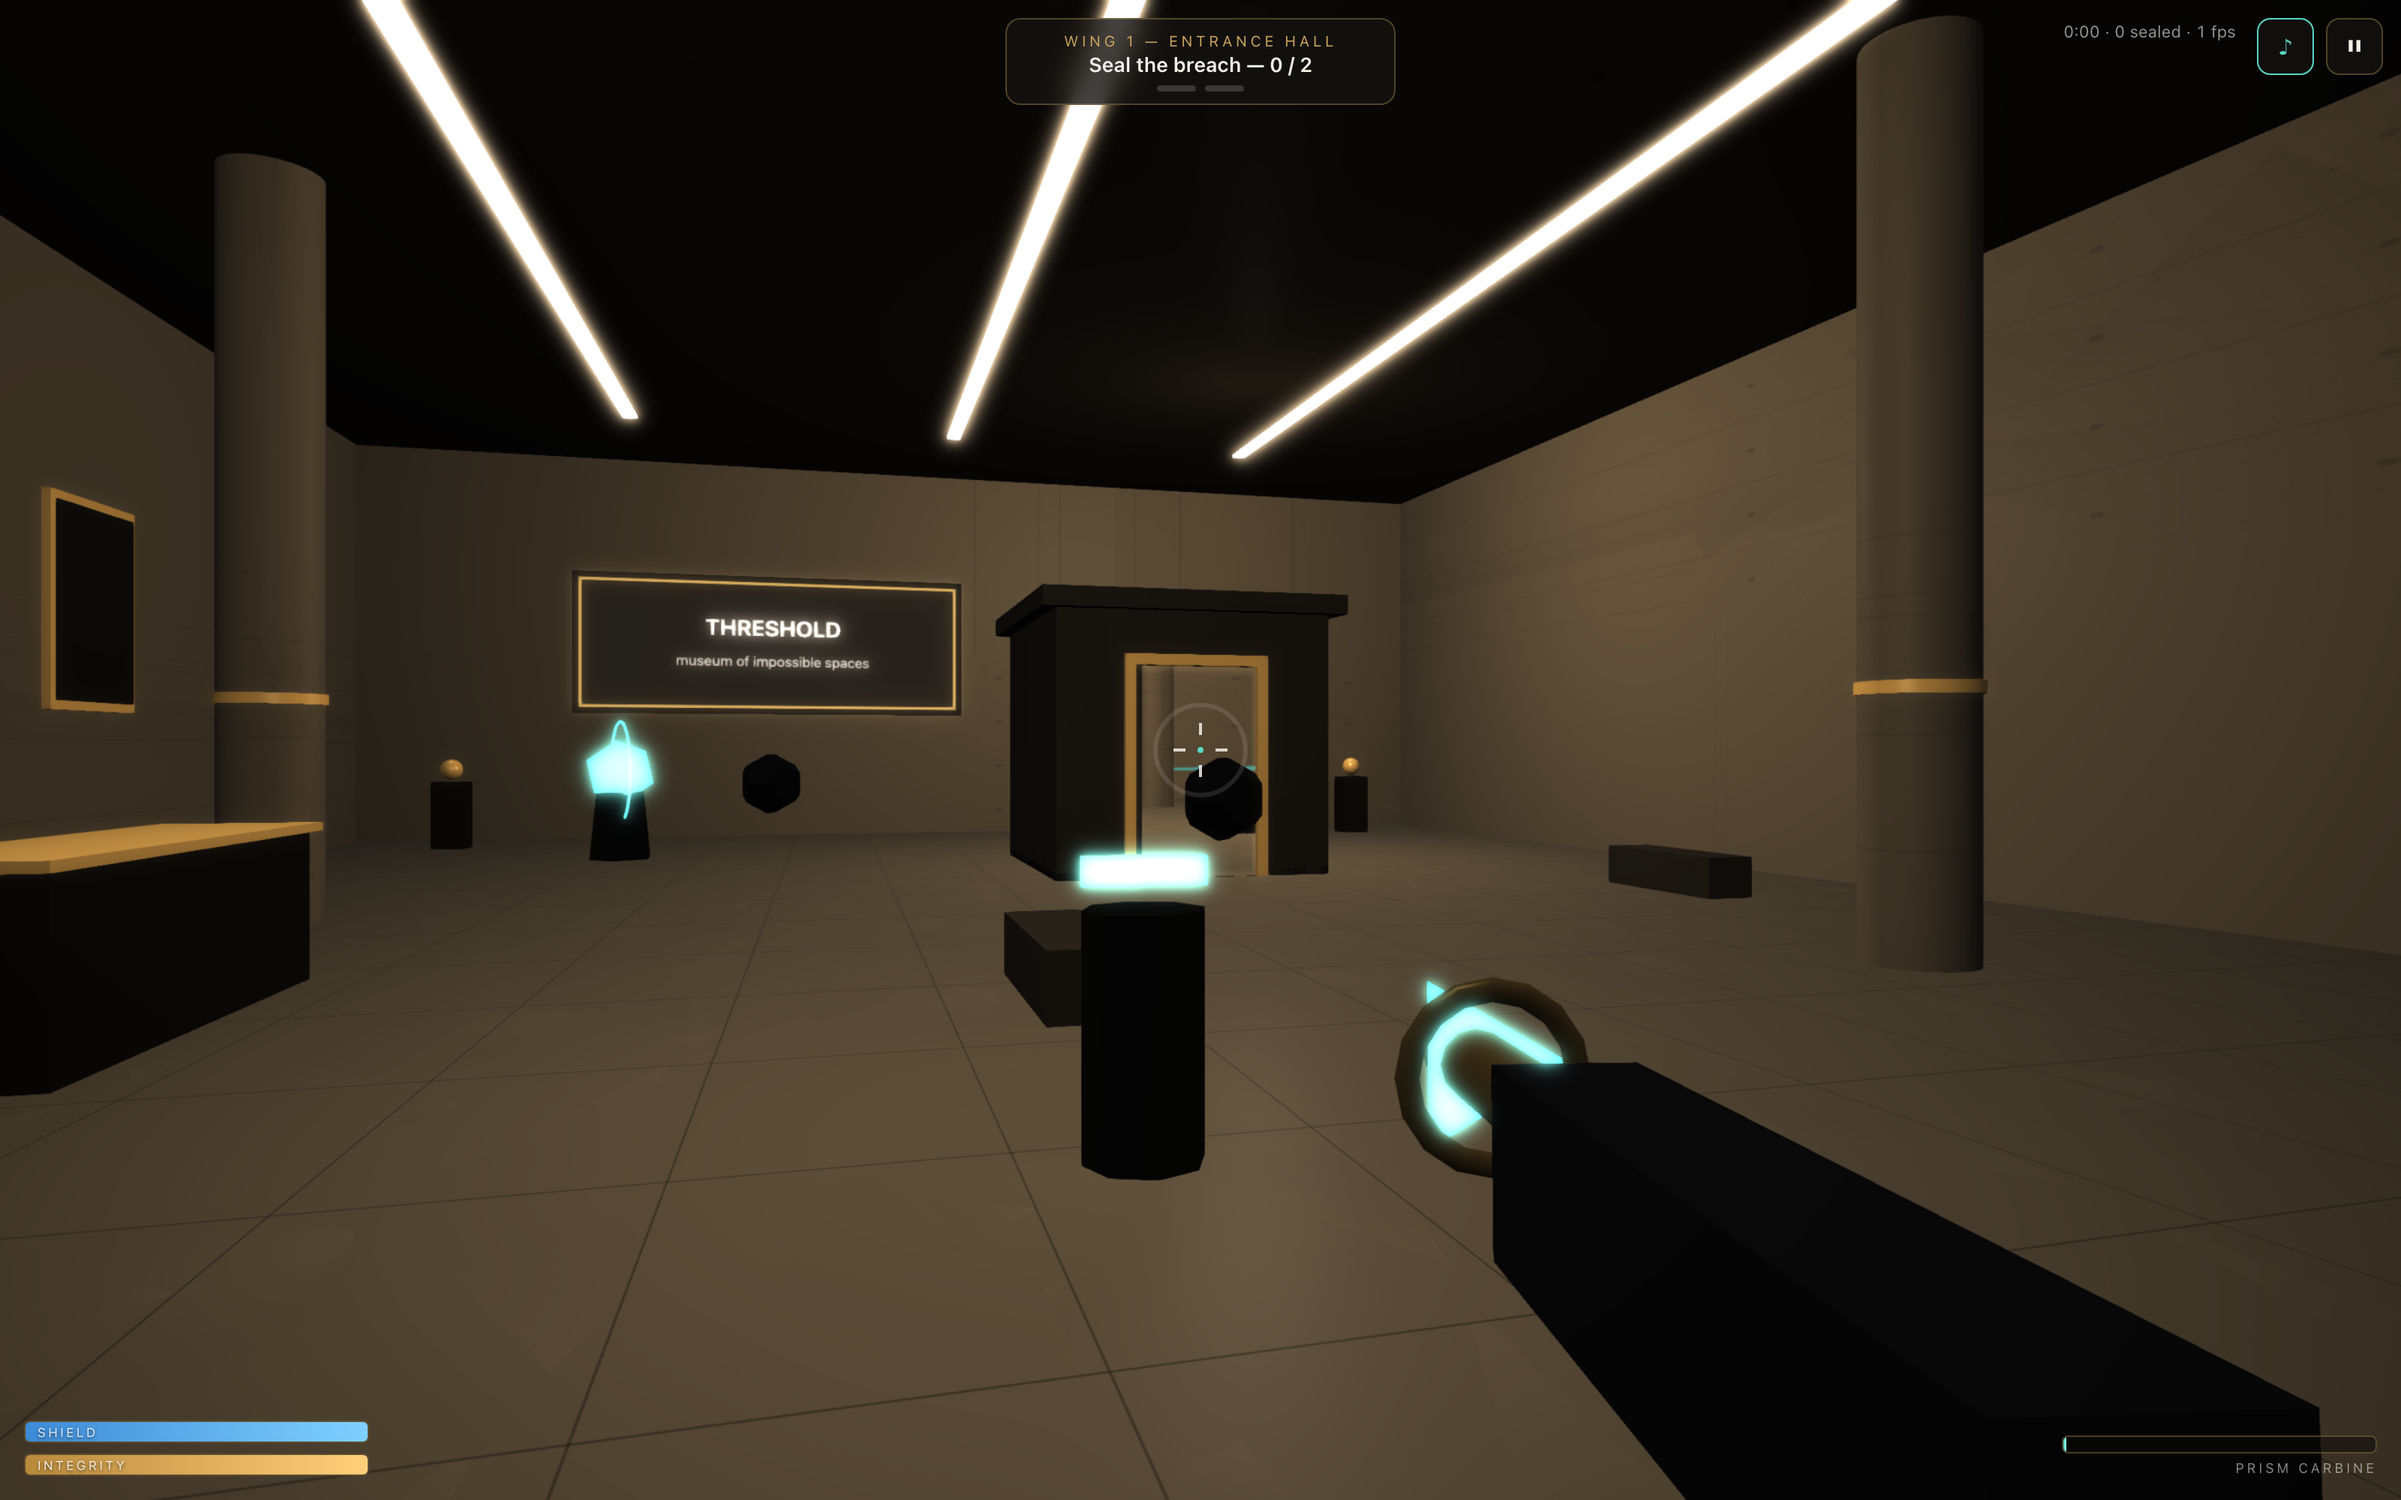
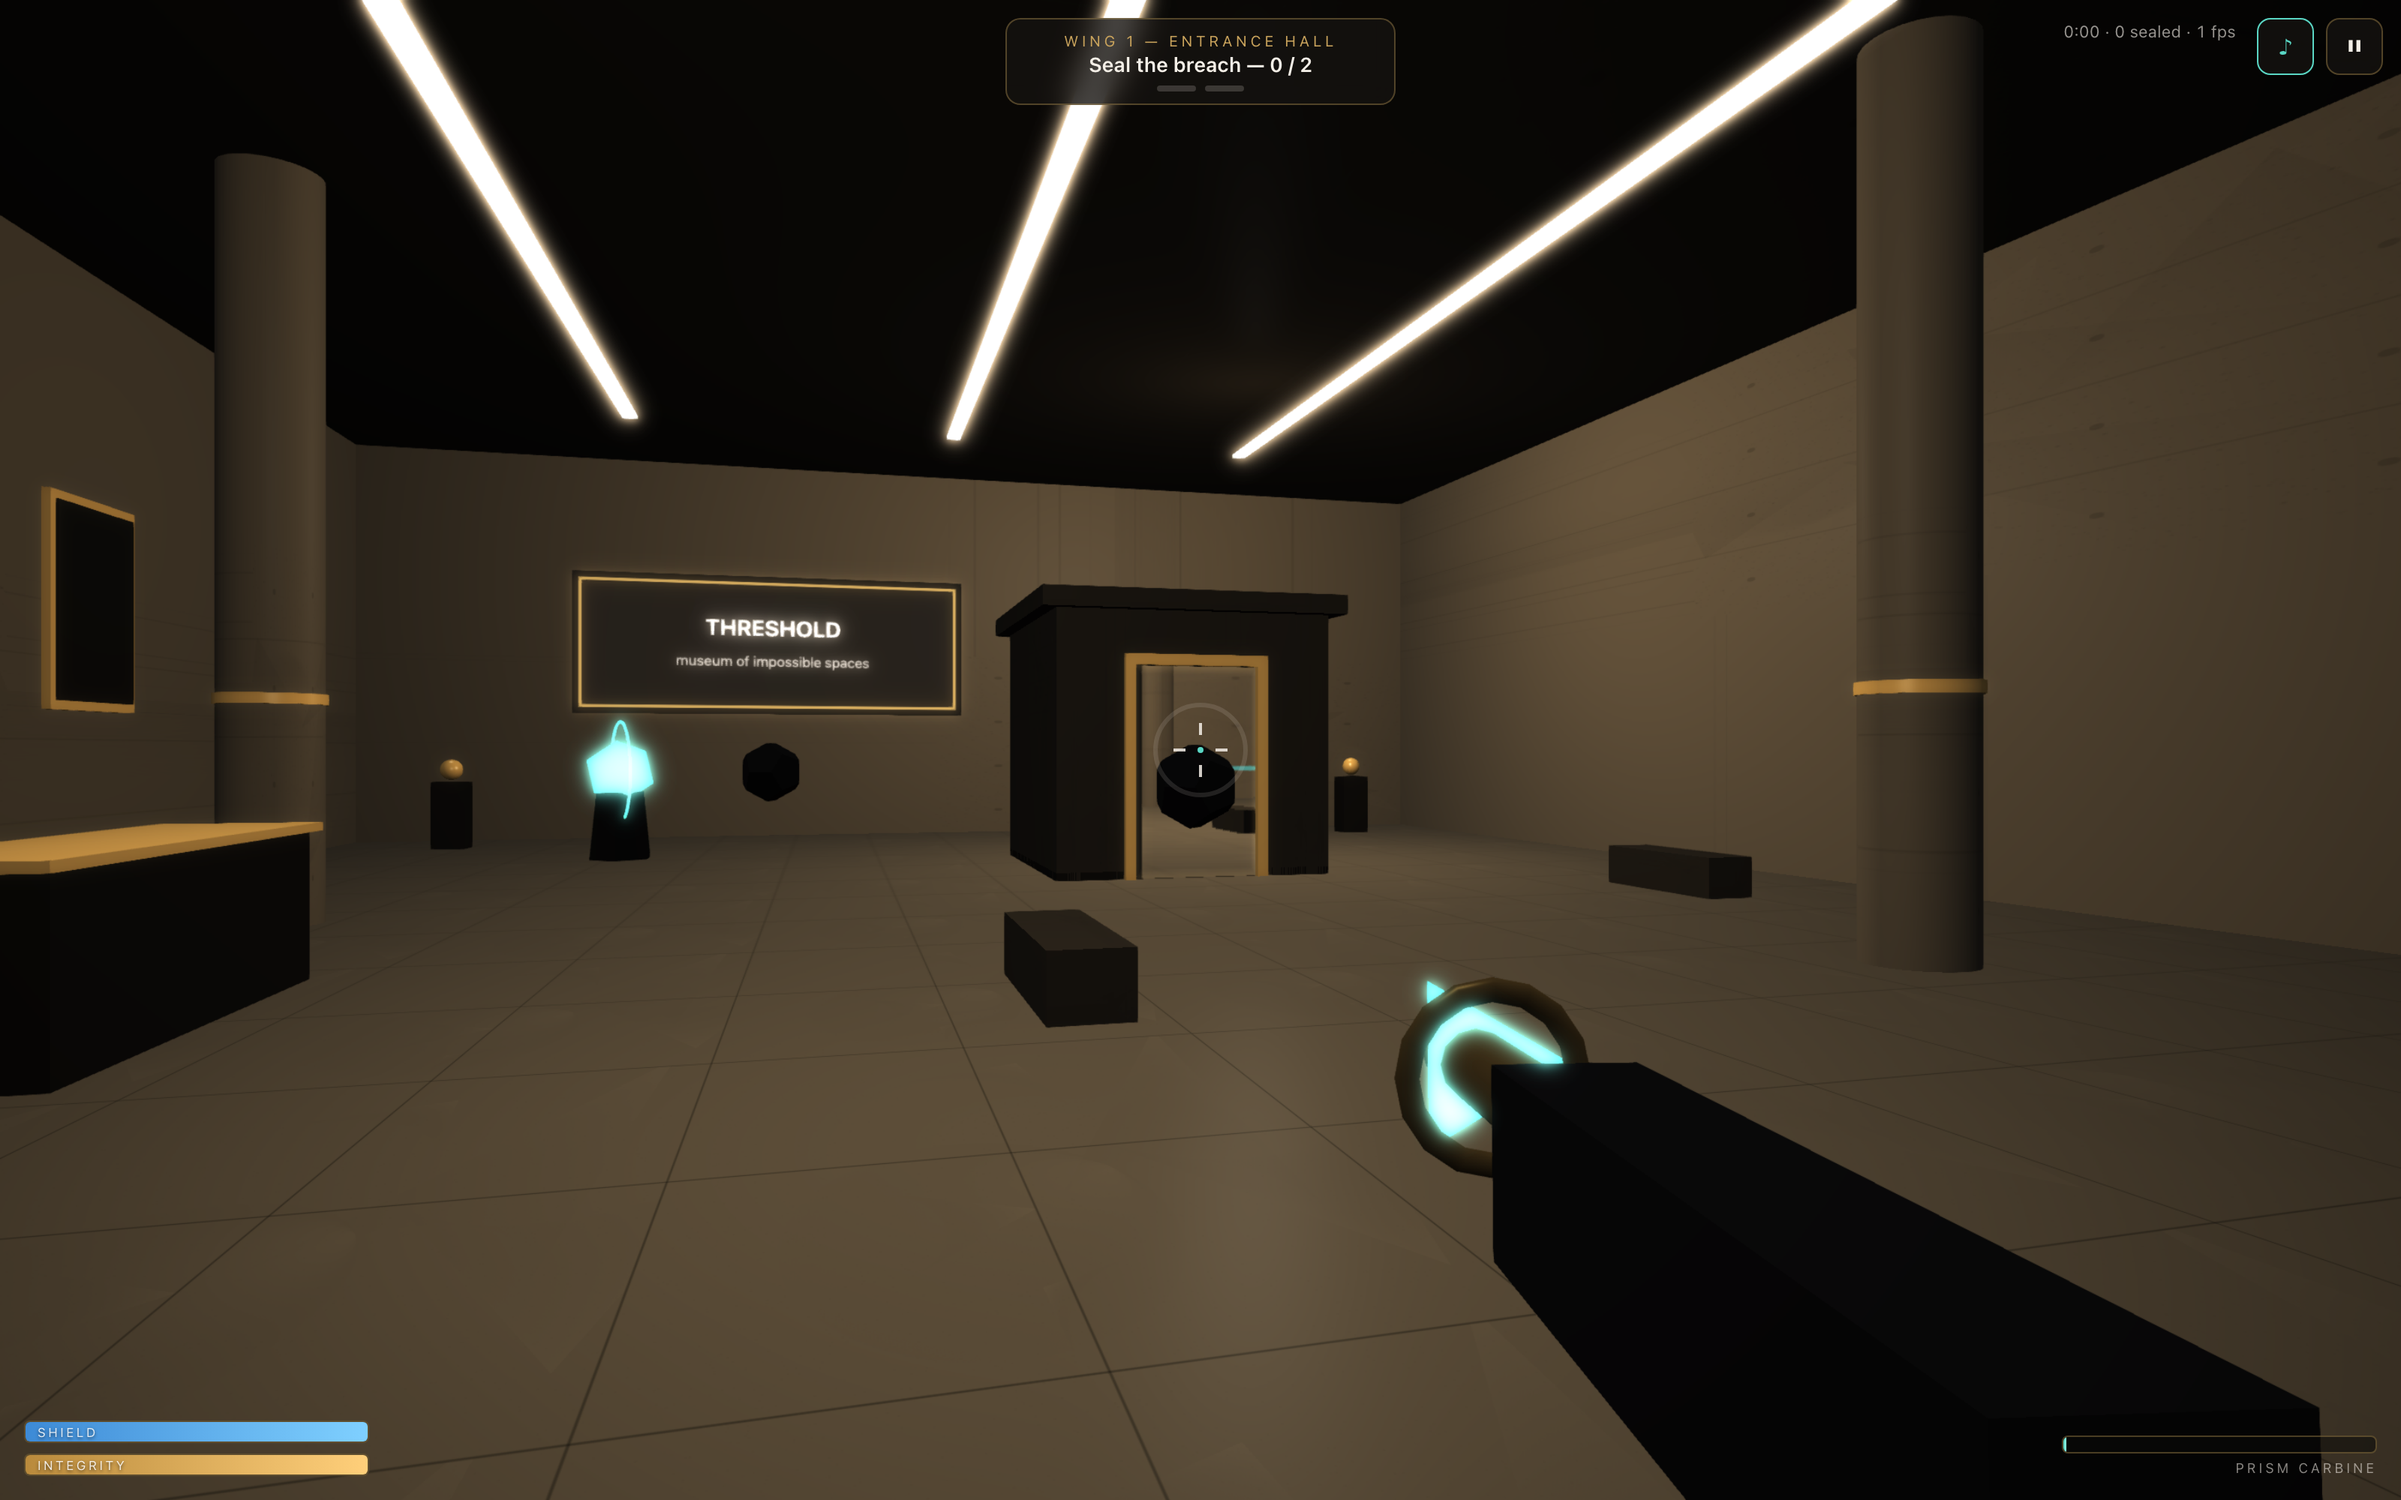
Weapon in hand from the start; seal each wing into a contained arena
- Remove the weapon-pickup gate: you spawn armed and can fire immediately
  (the carbine viewmodel is always in hand, so a separate pickup read as broken).
- Wing 1 breach begins on start; objective goes straight to 'Seal the breach'.
- Add invisible barriers across the atrium N/W/S openings so you can't wander
  into adjacent wings' dark geometry mid-fight (each wing is its own arena).

Changed region(s): [[0.4375, 0.496, 0.5312, 0.806], [0.3125, 0.496, 0.3438, 0.558]]

diff --git a/src/core/director.ts b/src/core/director.ts
@@ -152,7 +152,7 @@ export class Director implements CombatContext {
 
   // ---------------------------------------------------------------- flow
   start(): void {
-    setState({ phase: 'playing', hasWeapon: false, kills: 0, anchorsSealedTotal: 0, elapsed: 0 })
+    setState({ phase: 'playing', hasWeapon: true, kills: 0, anchorsSealedTotal: 0, elapsed: 0 })
     this.player.resetVitals()
     this.zoneIndex = 0
     this.player.teleport(this.zones[0].entry.pos, this.zones[0].entry.yaw, 0)
@@ -175,7 +175,7 @@ export class Director implements CombatContext {
     this.disposeAnchors()
     this.clearExitGate()
     this.world.clearInteractables()
-    this.breachActive = i !== 0 // zone 0 waits for the weapon pickup
+    this.breachActive = false
     this.spawnTimer = 0.6
     this.enemies.setBounds(z.bounds)
 
@@ -184,7 +184,7 @@ export class Director implements CombatContext {
       zoneLabel: z.label,
       anchorsSealed: 0,
       anchorsTotal: z.anchors.length,
-      objective: i === 0 && !getState().hasWeapon ? 'Recover the Prism Carbine' : `Seal the breach — 0 / ${z.anchors.length}`,
+      objective: `Seal the breach — 0 / ${z.anchors.length}`,
     })
 
     if (teleport) {
@@ -194,62 +194,11 @@ export class Director implements CombatContext {
     }
 
     for (const a of z.anchors) this.anchors.push(new Anchor(this.scene, a, this.fx))
-
-    if (i === 0 && !getState().hasWeapon) {
-      this.spawnWeaponPickup()
-    } else {
-      this.beginBreach()
-    }
-
+    this.beginBreach()
     if (z.throughPortal) this.spawnHallEnemies()
 
-    if (i === 0 && !getState().hasWeapon) {
-      this.hud.banner('RECOVER THE PRISM CARBINE', 'It’s on the plinth ahead — press E')
-      this.hud.toast('Walk up to the glowing plinth ahead and press E to arm the Prism Carbine.', 6000)
-    } else {
-      this.hud.banner(`WING ${i + 1} / ${this.zones.length}`, z.label)
-      this.hud.toast(z.briefing, 5000)
-    }
-  }
-
-  private spawnWeaponPickup(): void {
-    const pos = new Vector3(-7, 1.15, 1.4)
-    const node = new TransformNode('weapon-pickup-node', this.scene)
-    node.position.copyFrom(pos)
-    const ped = MeshBuilder.CreateCylinder('wp-ped', { height: 1.0, diameter: 0.5, tessellation: 8 }, this.scene)
-    const pm = new StandardMaterial('wp-ped-mat', this.scene)
-    pm.diffuseColor = new Color3(0.09, 0.085, 0.08)
-    ped.material = pm
-    ped.position.y = -0.65
-    ped.parent = node
-    const icon = MeshBuilder.CreateBox('wp-icon', { width: 0.1, height: 0.12, depth: 0.5 }, this.scene)
-    const im = new StandardMaterial('wp-icon-mat', this.scene)
-    im.emissiveColor = ANOMALY.clone()
-    im.diffuseColor = Color3.Black()
-    im.disableLighting = true
-    icon.material = im
-    icon.parent = node
-    this.scene.onBeforeRenderObservable.add(() => {
-      if (node.isDisposed()) return
-      if (!getState().reducedMotion) icon.rotation.y += this.scene.getEngine().getDeltaTime() / 1000
-    })
-
-    this.world.addInteractable({
-      id: 'weapon',
-      position: pos,
-      radius: 5,
-      prompt: 'E — take the Prism Carbine',
-      enabled: () => !getState().hasWeapon,
-      onInteract: () => {
-        node.dispose(false, true)
-        setState({ hasWeapon: true })
-        this.world.removeInteractable('weapon')
-        this.hud.banner('BREACH DETECTED', 'Space folds. Hostiles inbound.')
-        this.hud.toast('Left mouse fires · Right mouse charges to seal anchors', 6000)
-        this.beginBreach()
-      },
-    })
-    setState({ objective: 'Recover the Prism Carbine' })
+    this.hud.banner(`WING ${i + 1} / ${this.zones.length}`, z.label)
+    this.hud.toast(z.briefing, 5000)
   }
 
   private beginBreach(): void {

diff --git a/src/world/museum.ts b/src/world/museum.ts
@@ -65,12 +65,21 @@ export function buildMuseum(
     glowAmp: 0.18,
     allowCross: false,
   })
-  // invisible pane across the doorway (blocks the player, not shots or enemies)
-  const pane = MeshBuilder.CreateBox('door-pane', { width: 0.2, height: 2.7, depth: 1.7 }, scene)
-  pane.position.set(4.9, 1.35, -2.5)
-  pane.isVisible = false
-  pane.isPickable = false
-  pane.checkCollisions = true
+  // invisible barriers: keep the player inside each combat arena. They block the
+  // player only — not shots (not in wallMeshes) and not the hovering enemies.
+  // Doorway pane (Impossible Door) + the three atrium openings (N/W/S) so Wing 1
+  // stays in the atrium and you can't wander into other wings' dark geometry.
+  const barrier = (name: string, x: number, y: number, z: number, w: number, h: number, d: number) => {
+    const b = MeshBuilder.CreateBox(name, { width: w, height: h, depth: d }, scene)
+    b.position.set(x, y, z)
+    b.isVisible = false
+    b.isPickable = false
+    b.checkCollisions = true
+  }
+  barrier('door-pane', 4.9, 1.35, -2.5, 0.2, 2.7, 1.7)
+  barrier('seal-n', -6, 1.6, 10, 2.6, 3.2, 0.3) // to loop-corridor light-lock
+  barrier('seal-w', -15, 1.6, -4, 0.3, 3.2, 2.8) // to scale gallery room
+  barrier('seal-s', -6, 1.6, -10, 3.0, 3.2, 0.3) // to mirror atrium passage
 
   // --- lights: unscoped hemi lights everything (incl. dynamic enemies/weapon);
   //     point lights are scoped per sector to respect the per-mesh light cap.

diff --git a/src/main.ts b/src/main.ts
@@ -94,10 +94,7 @@ const hud = createHud({
   onMove: (fwd, side) => player.setMove(fwd, side),
   onJump: () => player.jump(),
   onCrouch: (on) => player.setCrouch(on),
-  onFire: (down) => {
-    if (down && !getState().hasWeapon) return armHint()
-    director.weapon.setPrimary(down)
-  },
+  onFire: (down) => director.weapon.setPrimary(down),
   onPulseDown: () => director.weapon.beginCharge(),
   onPulseUp: () => director.weapon.releaseCharge(),
 })
@@ -117,17 +114,8 @@ director = new Director(scene, player, {
 })
 
 // desktop mouse fire
-let lastArmHint = 0
-const armHint = () => {
-  const now = performance.now()
-  if (now - lastArmHint > 2500) {
-    hud.toast('No weapon yet — walk to the glowing plinth ahead and press E to take the Prism Carbine.', 3200)
-    lastArmHint = now
-  }
-}
 window.addEventListener('mousedown', (e) => {
   if (isTouch || getState().phase !== 'playing') return
-  if (!getState().hasWeapon) return armHint()
   if (e.button === 0) director.weapon.setPrimary(true)
   else if (e.button === 2) director.weapon.beginCharge()
 })
